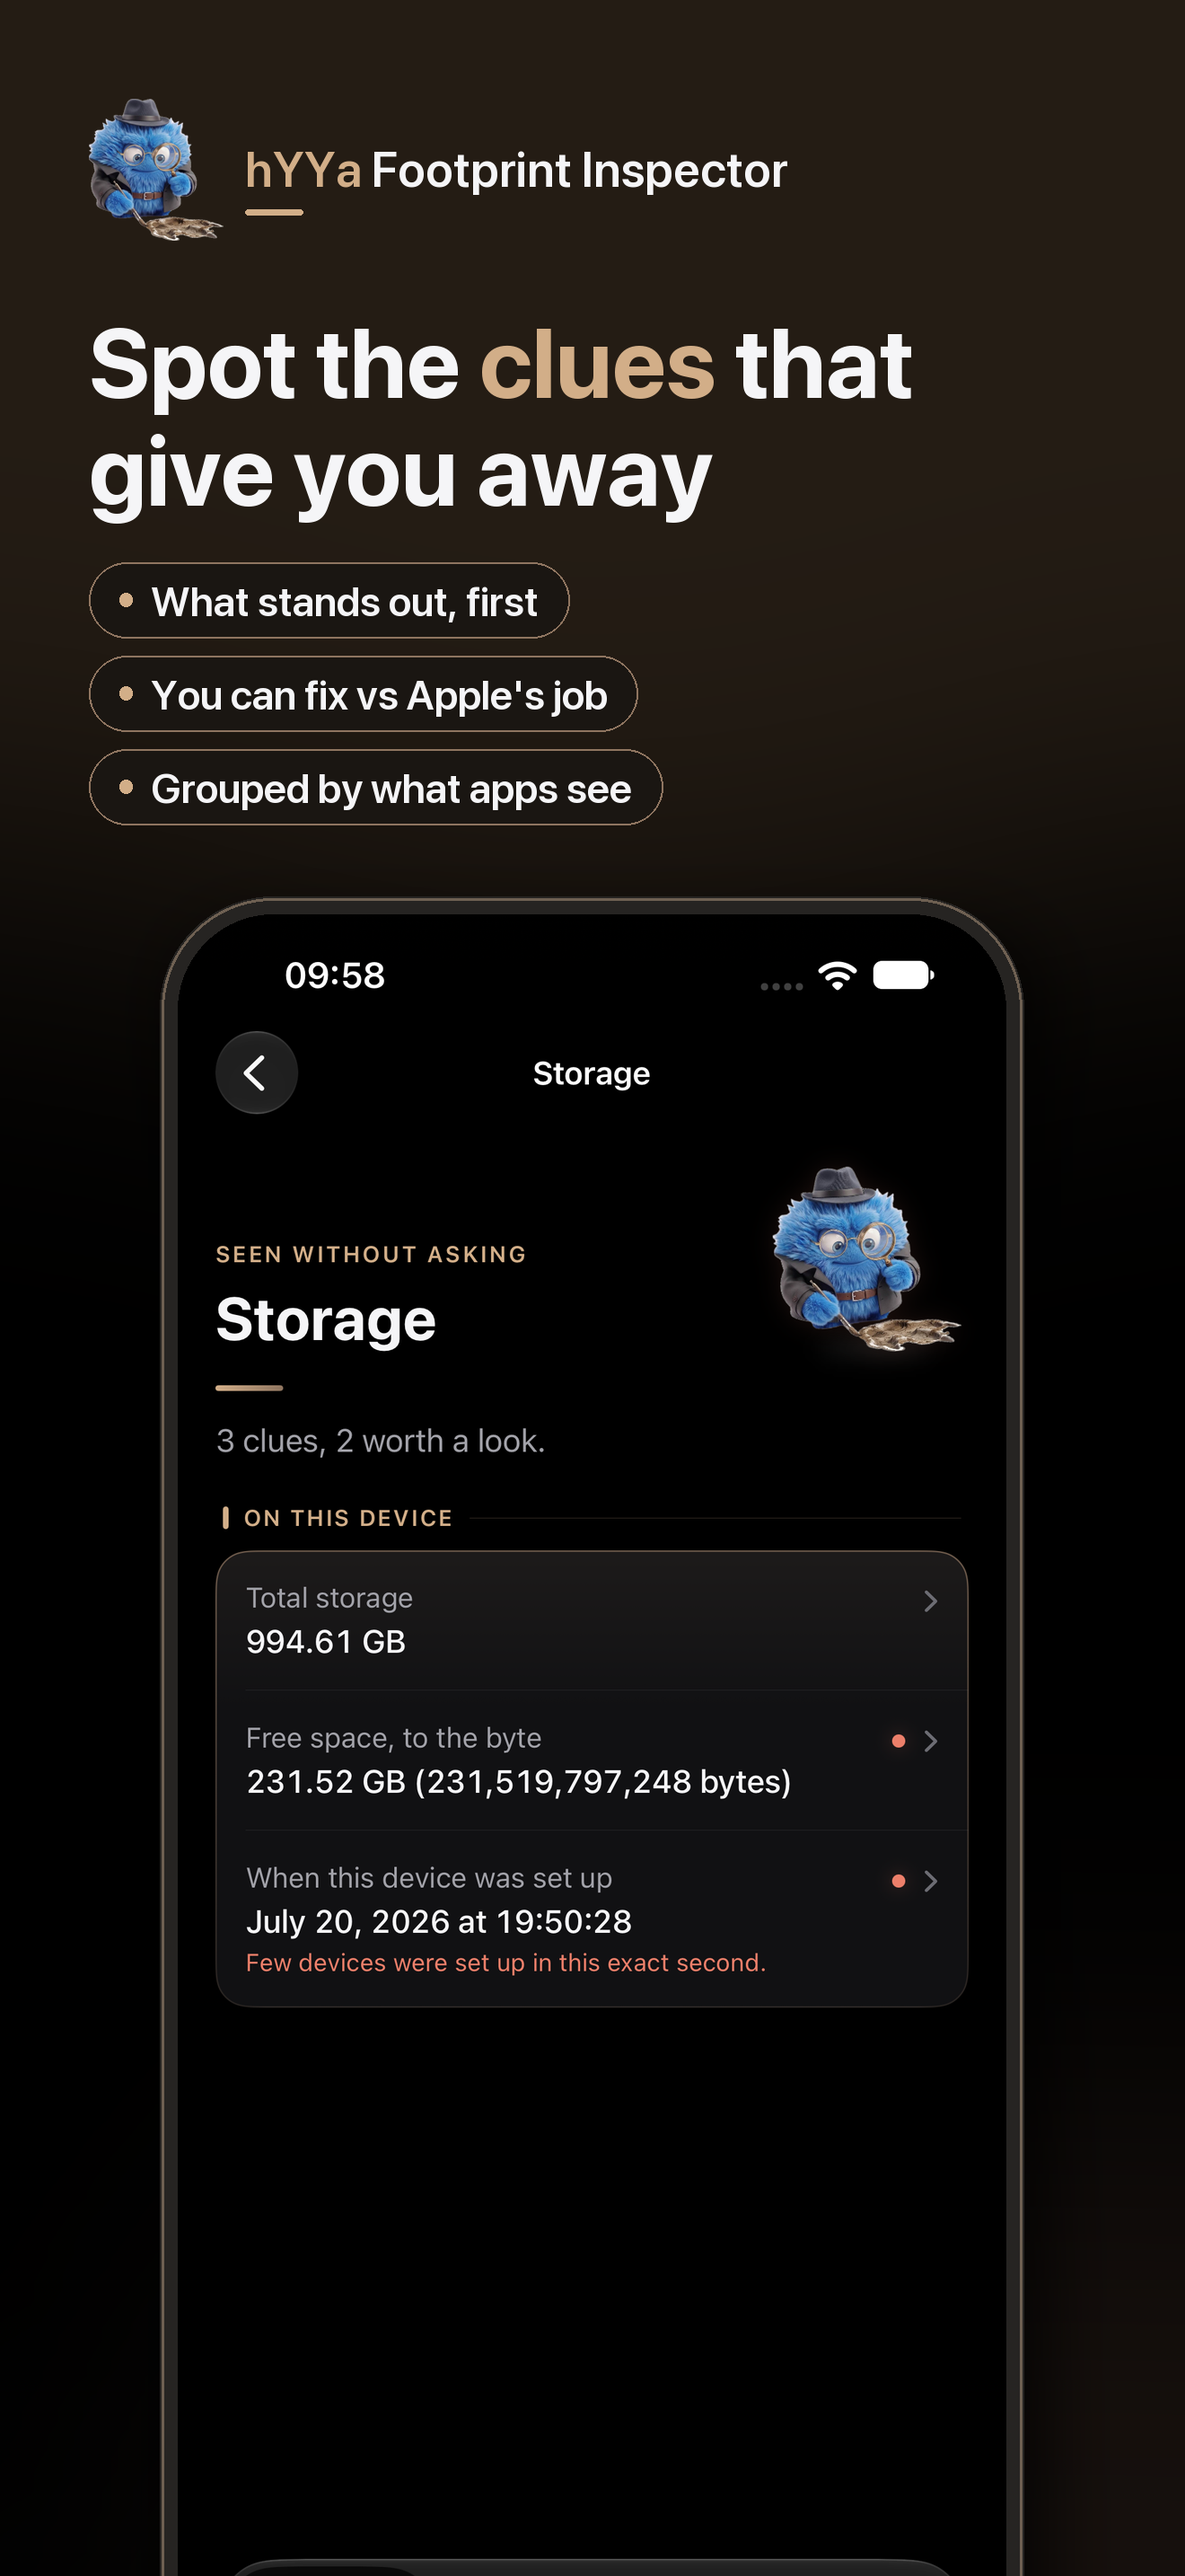
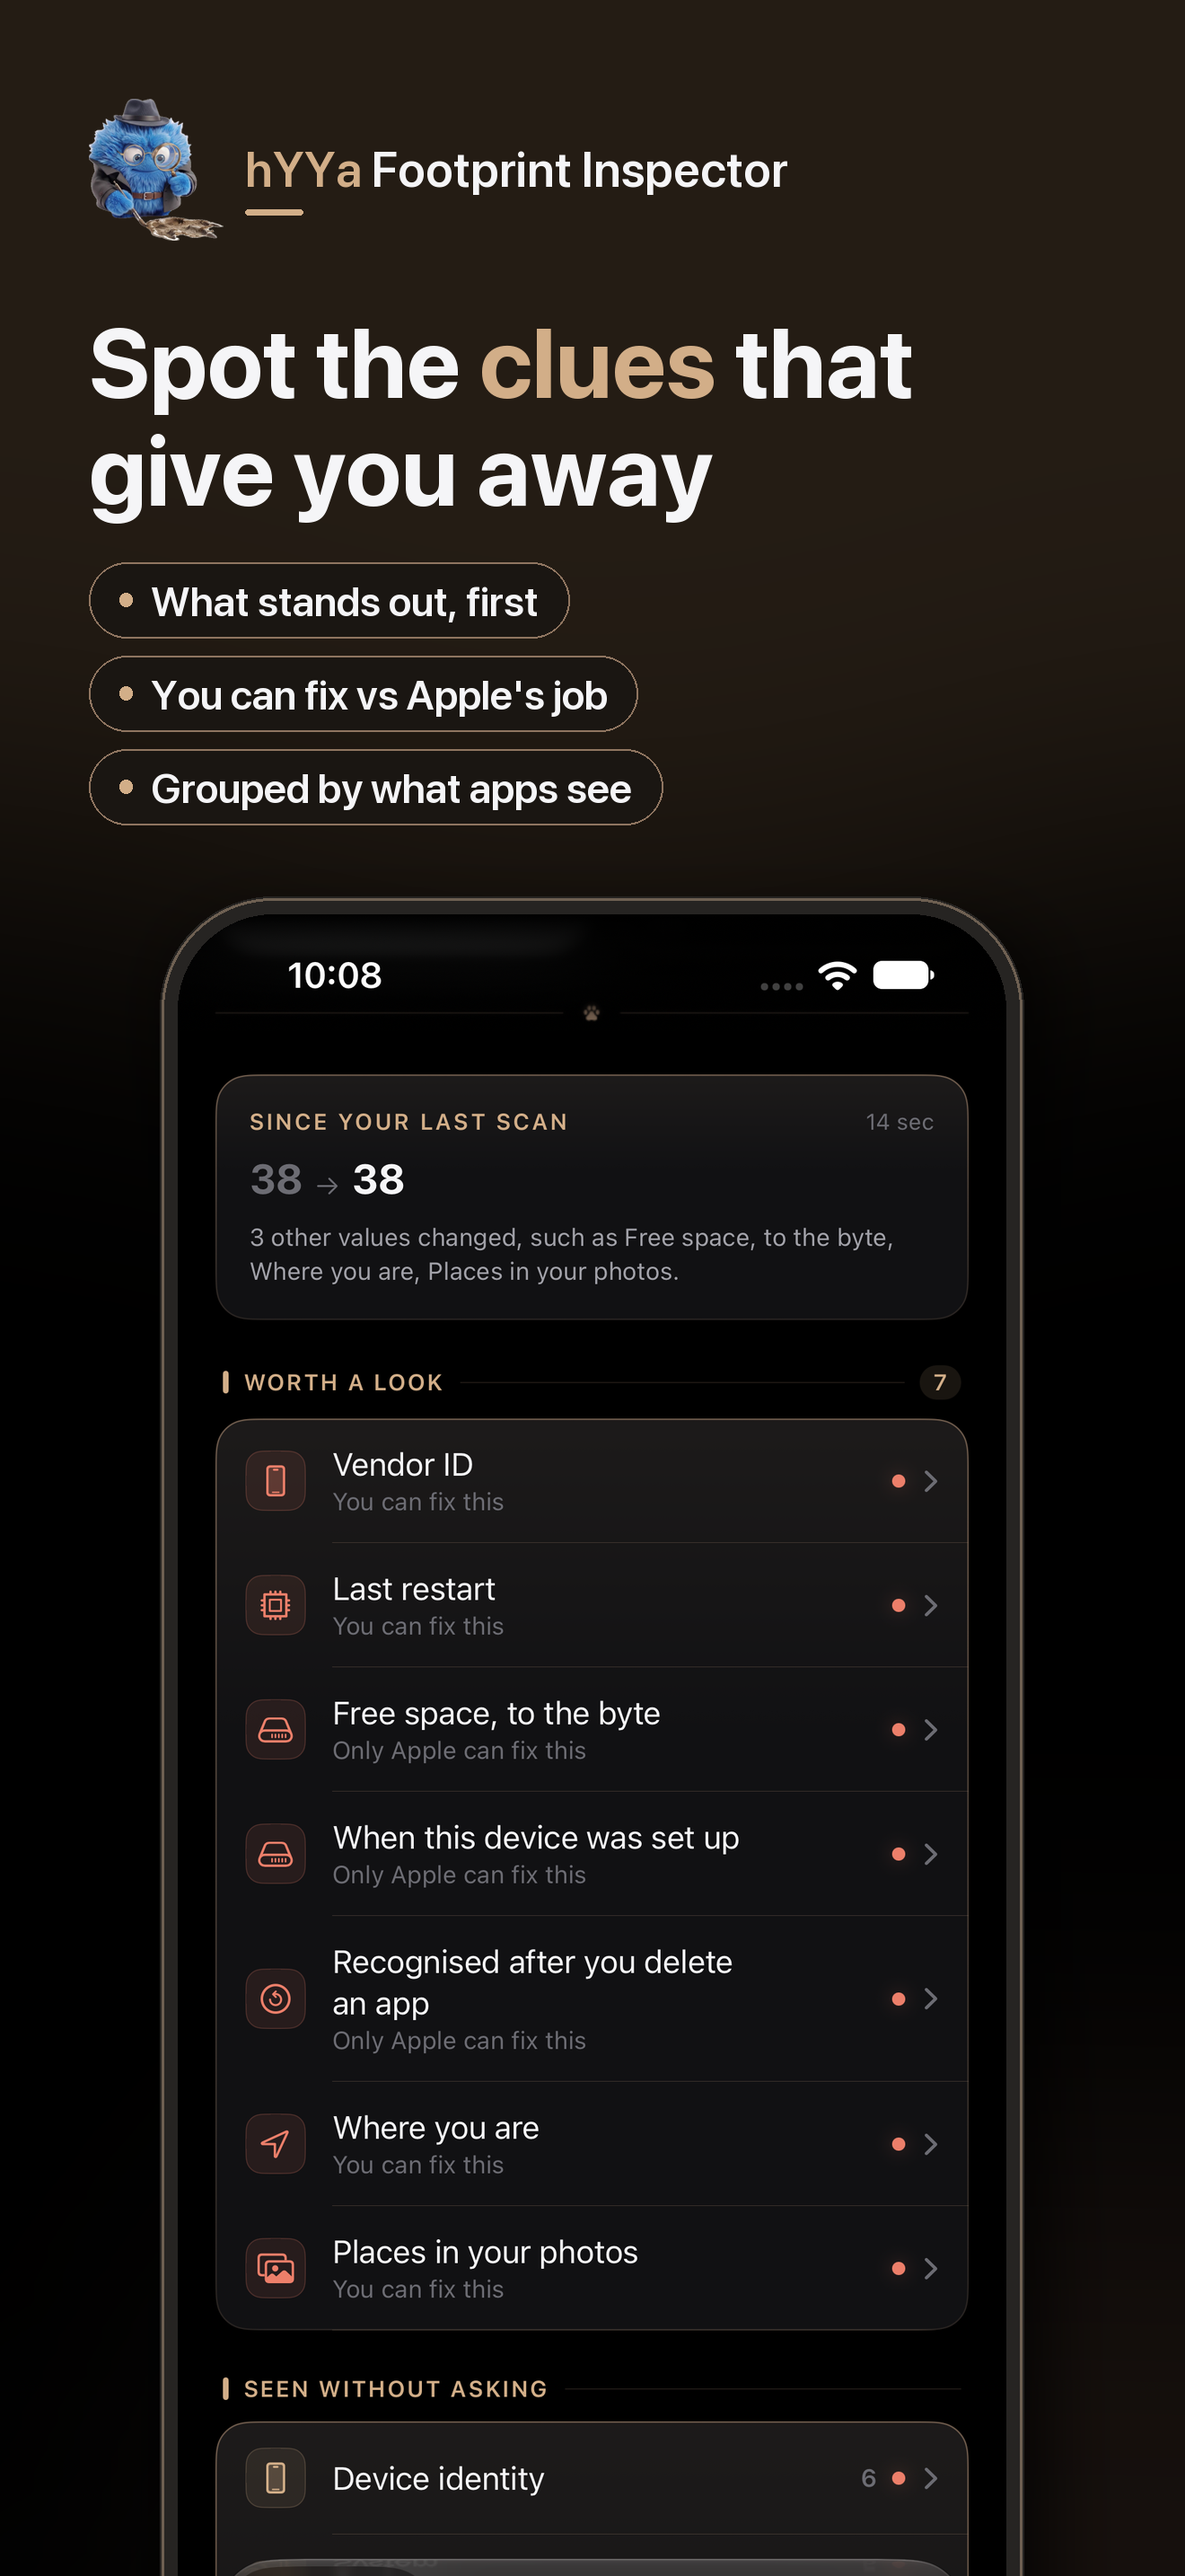
Slide 2: the Worth a look list (seven findings) instead of Storage

diff --git a/UITests/StoreScreenshotsUITests.swift b/UITests/StoreScreenshotsUITests.swift
@@ -50,6 +50,37 @@ final class StoreScreenshotsUITests: XCTestCase {
     }
 
     /// The Settings screen from top to bottom, attached as `settings-1…`, for design review.
+    /// Candidate screens for a stronger slide, attached as `cand-…`. Grants permissions when asked.
+    func testCaptureCandidates() {
+        let springboard = XCUIApplication(bundleIdentifier: "com.apple.springboard")
+        app.launch()
+        sleep(2)
+        tap("Start scan")
+        XCTAssertTrue(app.buttons["Scan again"].waitForExistence(timeout: 20))
+        for group in ["Remembered after deleting", "Location", "Photos", "Contacts", "Web fingerprint", "Account and App Store"] {
+            app.swipeDown(velocity: .fast); app.swipeDown(velocity: .fast)
+            let row = app.buttons.containing(NSPredicate(format: "label BEGINSWITH %@", group)).firstMatch
+            scrollTo(row, max: 16)
+            guard row.exists else { continue }
+            row.tap()
+            sleep(1)
+            let show = app.buttons["Show me"].firstMatch
+            if show.waitForExistence(timeout: 2) {
+                show.tap()
+                for label in ["Allow While Using App", "Allow Full Access", "Allow", "Continue", "OK"] {
+                    let b = springboard.buttons[label]
+                    if b.waitForExistence(timeout: 3) { b.tap(); sleep(1) }
+                }
+                sleep(4)
+            }
+            shot("cand-\(group)")
+            app.swipeUp(velocity: .slow)
+            shot("cand-\(group)-2")
+            app.navigationBars.buttons.element(boundBy: 0).tap()
+            sleep(1)
+        }
+    }
+
     func testCaptureSettings() {
         app.launch()
         sleep(2)
@@ -70,15 +101,17 @@ final class StoreScreenshotsUITests: XCTestCase {
         sleep(5)
         shot("store-02-results")
 
-        // A clue group opened from the top, so nothing sits half-scrolled under the status bar.
-        let group = app.buttons.containing(NSPredicate(format: "label BEGINSWITH 'Storage'")).firstMatch
-        scrollTo(group)
-        group.tap()
+        // The "Worth a look" list, with the comparison card's top edge just below the status bar,
+        // so nothing sits half-hidden under the clock.
+        let card = app.staticTexts.containing(NSPredicate(format: "label CONTAINS[c] 'since your last scan'")).firstMatch
+        if card.waitForExistence(timeout: 3) {
+            let top = app.windows.firstMatch.frame.minY + 66
+            let start = card.coordinate(withNormalizedOffset: CGVector(dx: 0.5, dy: 0.5))
+            let end = app.coordinate(withNormalizedOffset: .zero).withOffset(CGVector(dx: card.frame.midX, dy: top + 34))
+            start.press(forDuration: 0.1, thenDragTo: end, withVelocity: .slow, thenHoldForDuration: 0.8)
+        }
         sleep(2)
         shot("store-03-clues")
-        app.navigationBars.buttons.element(boundBy: 0).tap()
-        sleep(1)
-        app.swipeDown(velocity: .fast)
 
         let clue = app.buttons.containing(NSPredicate(format: "label CONTAINS 'Last restart'")).firstMatch
         scrollTo(clue)
